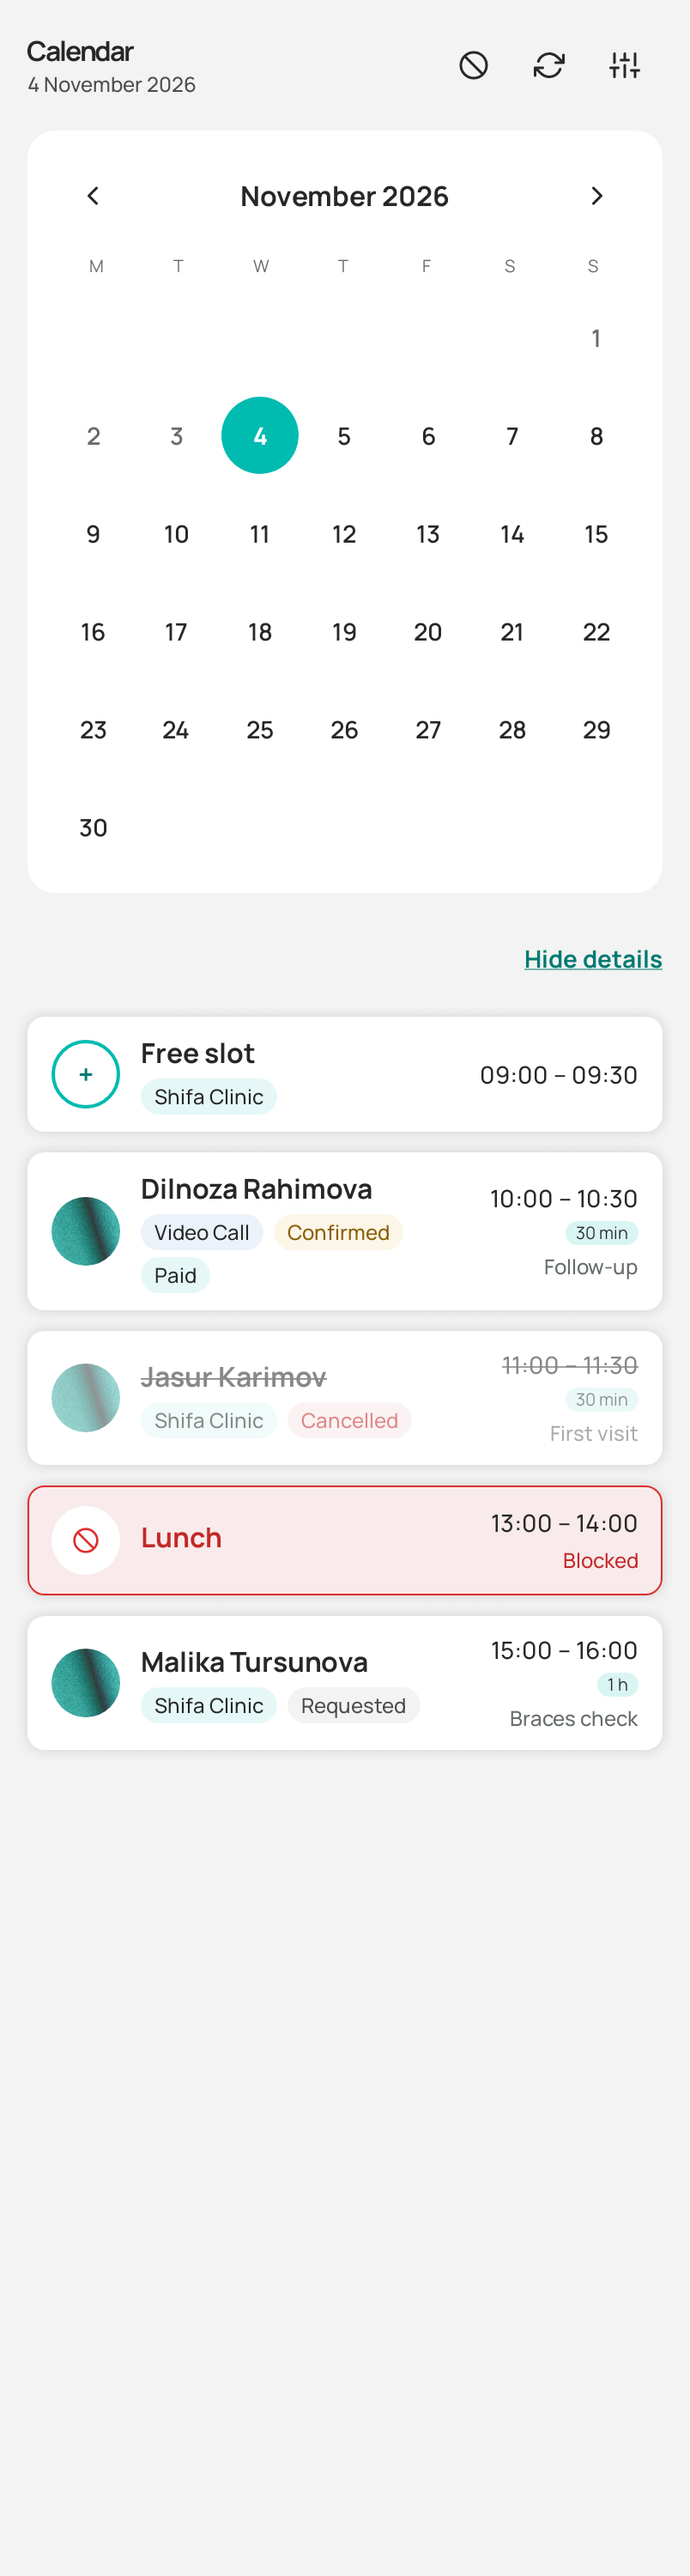
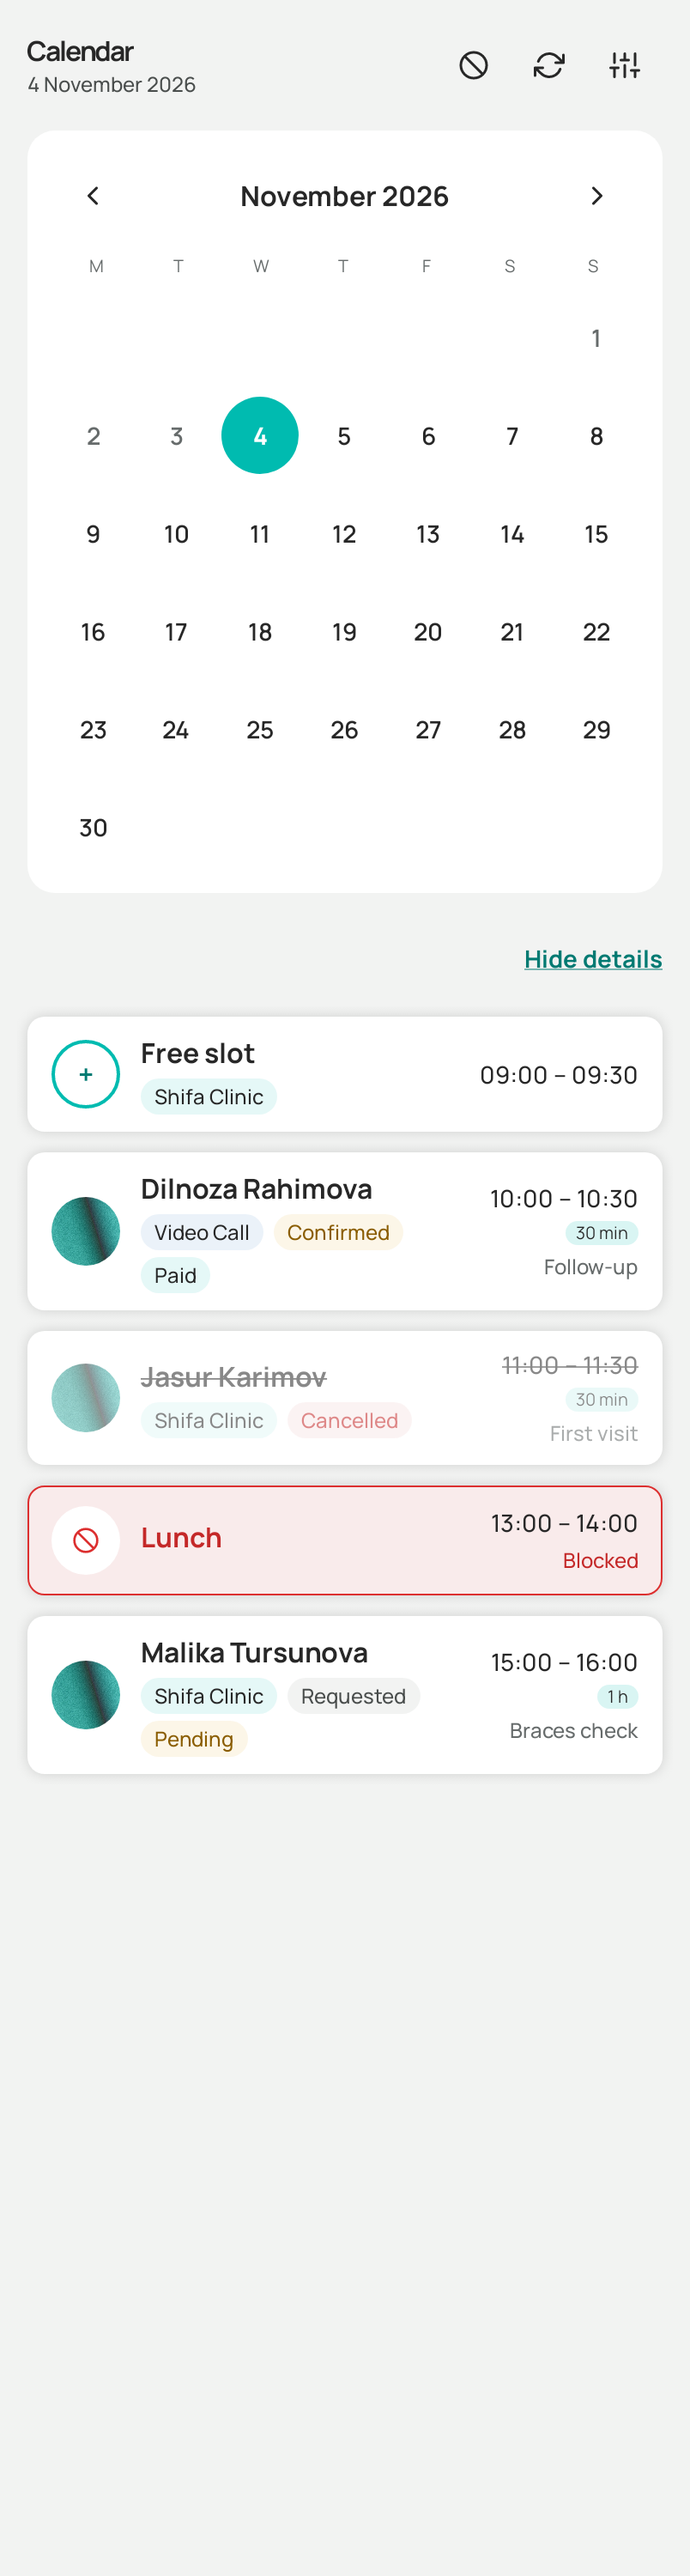
feat(calendar): show the payment chip on paid in-person visits

Changed region(s): [[0.0622, 0.62, 0.5908, 0.682], [0.7152, 0.62, 0.9328, 0.682]]

diff --git a/composeApp/src/androidUnitTest/kotlin/shifa/doctor/data/appointments/AppointmentRulesTest.kt b/composeApp/src/androidUnitTest/kotlin/shifa/doctor/data/appointments/AppointmentRulesTest.kt
@@ -138,4 +138,17 @@ class AppointmentRulesTest {
         // A backend without the flag: the word.
         assertThat(appt("2026-11-04T05:00:00Z", "2026-11-04T05:30:00Z", video = true).isVideo).isTrue()
     }
+
+    @Test
+    fun `the payment chip shows for video and for any in-person visit with a payment`() {
+        val clinic = appt("2026-11-04T05:00:00Z", "2026-11-04T05:30:00Z")
+        val video = appt("2026-11-04T05:00:00Z", "2026-11-04T05:30:00Z", video = true)
+        // Booked by the doctor: no payment, no chip.
+        assertThat(clinic.copy(paymentStatus = "NOT_REQUIRED").showsPayment).isFalse()
+        assertThat(clinic.showsPayment).isFalse()
+        // Prepaid online, waiting for payment, or paid in clinic.
+        assertThat(listOf("PAID", "PENDING", "PAY_IN_CLINIC").map { clinic.copy(paymentStatus = it).showsPayment })
+            .containsExactly(true, true, true)
+        assertThat(video.copy(paymentStatus = "NOT_REQUIRED").showsPayment).isTrue()
+    }
 }

diff --git a/composeApp/src/commonMain/kotlin/shifa/doctor/data/model/CalendarModels.kt b/composeApp/src/commonMain/kotlin/shifa/doctor/data/model/CalendarModels.kt
@@ -70,8 +70,10 @@ sealed interface CalendarEntry {
 
         val isVideo: Boolean get() = kind == VisitKind.Video
 
-        // Video is paid online (or free); an in-person visit only when the patient pays in clinic (a pay-later service).
-        val showsPayment: Boolean get() = isVideo || paymentStatus.equals("PAY_IN_CLINIC", ignoreCase = true)
+        // Video always; an in-person visit whenever the patient pays (online or in clinic), so reception sees a prepaid
+        // visit. One the doctor booked has no payment (NOT_REQUIRED) and shows none.
+        val showsPayment: Boolean get() =
+            isVideo || (!paymentStatus.isNullOrBlank() && !paymentStatus.equals("NOT_REQUIRED", ignoreCase = true))
 
         val cancelled: Boolean get() = status.equals("CANCELLED", ignoreCase = true)
     }

diff --git a/docs/implemented/calendar.md b/docs/implemented/calendar.md
@@ -96,7 +96,7 @@ Built 2026-11-04. Flows `04/01-calendar-tab.md`, `04/02-day-agenda-item.md`, `04
   fallback per the project rule, the board draws initials; patient name or "Patient"; "Video Call" or the location;
   cancelled ones dimmed and struck through), block (error tint and border, reason or "Blocked", "All day" for a whole
   day). Compact by default; "Show details" adds the location chip (info tint for video), the status chip (Confirmed,
-  Complete, Cancelled, In progress, Requested, No-show, else the raw code), the payment chip for video and for pay in clinic (SVC-03), the duration
+  Complete, Cancelled, In progress, Requested, No-show, else the raw code), the payment chip for video and for any in-person visit with a payment (paid online, pending, pay in clinic: SVC-03), the duration
   badge (over 5 minutes) and the reason; the compact line reads place · status · payment. The right column is capped so
   a long reason never hides the name. Rows are tappable; their panels come
   with CAL-6 / CAL-7 / CAL-8.
@@ -134,7 +134,7 @@ for its buttons), not a sheet.
   practice day), `changeable`, `durationOptions` (shorter by the grain: the GCD of the free-slot lengths at its location,
   5–240, never under 5 minutes; longer by chaining the free slots right after it at the same location), and `fits` (a
   slot can take the move only when free slots chained without a gap cover the visit's whole length).
-- **Panel** (`ui/calendar/AppointmentPanel.kt`): patient and time with status and payment chips (video, or pay in clinic: SVC-03); Date and Time →
+- **Panel** (`ui/calendar/AppointmentPanel.kt`): patient and time with status and payment chips (video, or an in-person visit with a payment: SVC-03); Date and Time →
   Reschedule sheet (the month picker, shaded from the cache, past days closed; the day's future free slots where the
   visit fits as chips, the location named when it differs, the current slot greyed as "current"; "Move to 10:30", the
   length kept; a failed read shows the error with Retry);

diff --git a/docs/implemented/profile.md b/docs/implemented/profile.md
@@ -295,8 +295,9 @@ app already reads it. Not in the design: the segmented control and its hints fol
   person or by video"), Pay online ("pay online when they book, in person or by video"), Pay in clinic ("pay at the
   visit … only in person, not by video": the backend allows video only for free and pay-now services).
 - **List:** a "Pay in clinic" tag. **Calendar:** an in-person appointment booked that way has payment status
-  `PAY_IN_CLINIC`; its "Pay in clinic" chip shows in the details chips, the compact line and the panel (before, the
-  payment chip showed only for video).
+  `PAY_IN_CLINIC`; its "Pay in clinic" chip shows in the details chips, the compact line and the panel. Every
+  in-person visit with a payment now shows its chip (paid online, pending), so reception doesn't charge a prepaid
+  patient again; one the doctor booked (`NOT_REQUIRED`) shows none. Before, the payment chip showed only for video.
 - **Not built (the user's defaults, 2026-11-11):** clinic catalogue services can't be pay-later (the catalogue item has
   no payment type: a backend change plus Clinic → Services), and nothing marks a pay-in-clinic visit as paid (no
   endpoint).
